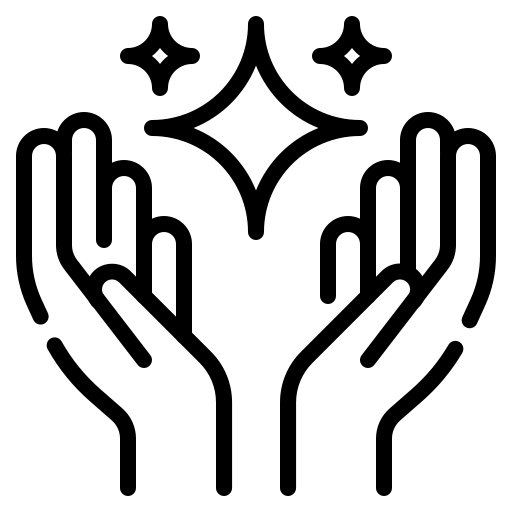
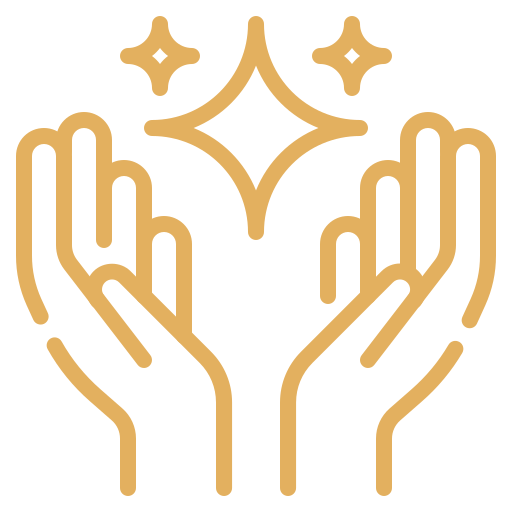
Card adjusted

diff --git a/assets/css/style.css b/assets/css/style.css
@@ -120,6 +120,12 @@ li, p, input, textarea, .btn{
   line-height: 30px;
 }
 
+body > main > section.pricing-card-area.section-padding30.section-bg > div > div.cards-container > div:nth-child(2) > div > div.card-bottom > ul li{
+display: flex;
+justify-content: center;
+align-items: center;
+}
+
 .section-padding30 {
     padding-top: 80px!important;
 }
@@ -226,6 +232,9 @@ p {
   line-height: 30px;
   margin-bottom: 15px;
   font-weight: normal;
+}
+h5,h4{
+  margin: 0;
 }
 .bg-img-1 {
   background-image: url(../img/slider/slider-img-1.jpg);
@@ -2566,11 +2575,15 @@ hr {
 }
 .pricing-card-area .single-card .card-top h4, .card-bottom h4{
   color: #2e3c40;
-  font-size: 35px;
+  font-size: 32px;
   font-weight: 700;
-  margin-bottom: 26px;
-  line-height: 32px;
+  margin-bottom: 22px;
+  line-height: 27px;
 }
+.flaticon-award{
+  color: #e3b05f;
+}
+
 
 .card-bottom ul{
   margin-bottom: 20px;
@@ -4890,6 +4903,7 @@ del {
 .ordered-list {
   margin-left: 30px;
 }
+
 .ordered-list li {
   list-style-type: decimal-leading-zero;
   color: #1f2b7b;
@@ -5500,6 +5514,10 @@ del {
 }
 .card-top img {
   width: 65px;
+}
+
+body > main > section.pricing-card-area.section-padding30.section-bg > div > div.cards-container > div:nth-child(1) > div > div.card-bottom > h4{
+  margin-bottom: 5px;
 }
 
 .img-icon{
